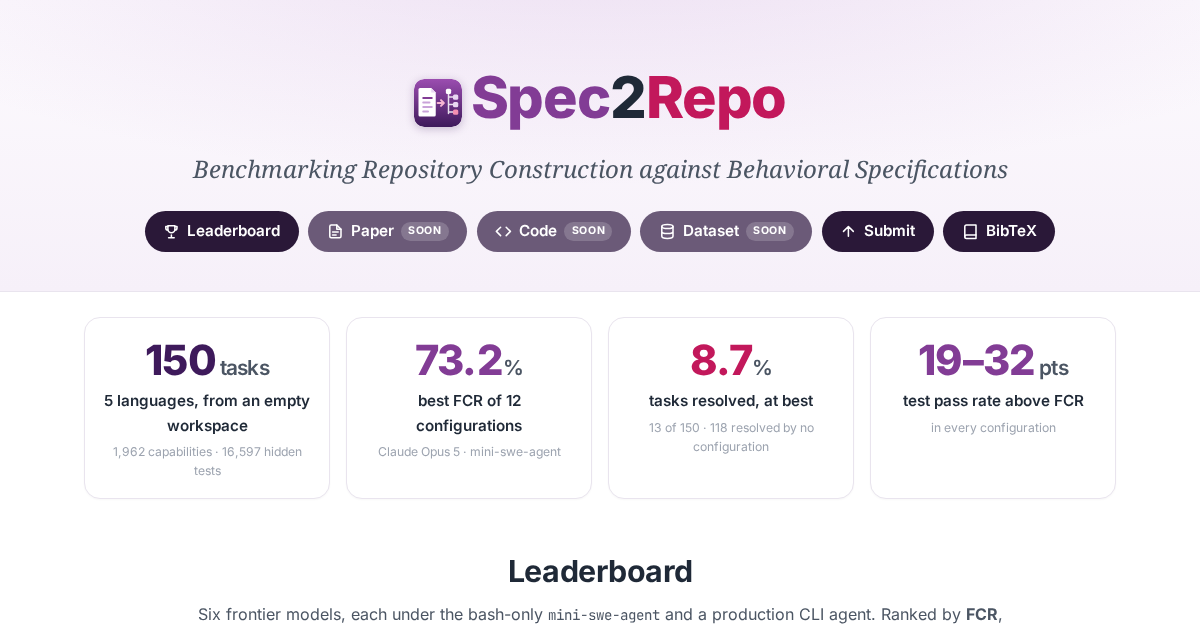
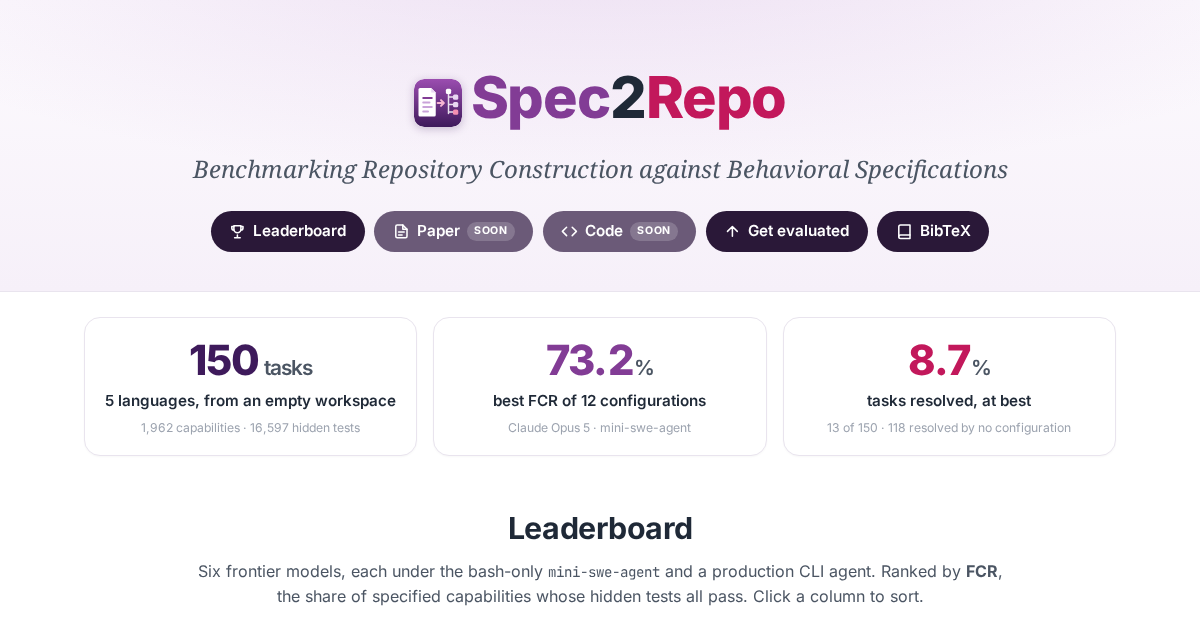
Remove test pass rate from leaderboard and headline cards

diff --git a/index.html b/index.html
@@ -119,11 +119,6 @@
     <div class="tldr-label">tasks resolved, at best</div>
     <div class="tldr-foot">13 of 150 · 118 resolved by no configuration</div>
   </div>
-  <div class="tldr-card">
-    <div class="tldr-num">19–32<span class="unit"> pts</span></div>
-    <div class="tldr-label">test pass rate above FCR</div>
-    <div class="tldr-foot">in every configuration</div>
-  </div>
 </div>
 
 <!-- ================== LEADERBOARD ================== -->
@@ -456,7 +451,7 @@
     <div class="submit-step"><span class="n">1</span><h4>Contact us</h4><p>Write to <a href="mailto:frostlin2005@gmail.com">frostlin2005@gmail.com</a> with the model or scaffold you want evaluated.</p></div>
     <div class="submit-step"><span class="n">2</span><h4>Same protocol</h4><p>Each run starts from the specification and an empty workspace in a fresh container, with an 8-hour budget and network access limited to the model API and a package registry.</p></div>
     <div class="submit-step"><span class="n">3</span><h4>Offline scoring</h4><p>The repository is built in a fresh container and the hidden tests run without network access. The agent never sees the tests or the reference implementation.</p></div>
-    <div class="submit-step"><span class="n">4</span><h4>Reported metrics</h4><p>FCR, test pass rate, and resolved tasks over all 150 tasks, the same columns as the leaderboard.</p></div>
+    <div class="submit-step"><span class="n">4</span><h4>Reported metrics</h4><p>FCR and resolved tasks over all 150 tasks, the same columns as the leaderboard.</p></div>
   </div>
 </section>
 

diff --git a/static/js/leaderboard.js b/static/js/leaderboard.js
@@ -13,12 +13,10 @@
       { k: 'fcr', h: 'FCR', sub: 'overall', cls: 'fcr' },
       ...S.LANGS.map((l) => ({ k: 'lang.' + l, h: S.LNAME[l], sub: S.NTASK[l] + ' tasks' })),
       { k: 'resolved', h: 'Resolved', sub: '(almost)', cls: 'res' },
-      { k: 'pass', h: 'Pass rate', sub: 'tests' },
     ],
     cost: [
       { k: 'fcr', h: 'FCR', sub: 'overall', cls: 'fcr' },
       { k: 'resolved', h: 'Resolved', sub: '(almost)', cls: 'res' },
-      { k: 'pass', h: 'Pass rate', sub: 'tests' },
       { k: 'cost', h: 'Cost', sub: '$ / run' },
       { k: 'tokens', h: 'Tokens', sub: 'M / run' },
       { k: 'calls', h: 'API calls', sub: '/ run' },

diff --git a/static/css/style.css b/static/css/style.css
@@ -107,7 +107,7 @@ button { font-family: var(--sans); }
 
 /* ----- TL;DR cards ----- */
 .tldr-grid {
-  display: grid; grid-template-columns: repeat(4, 1fr); gap: 1rem;
+  display: grid; grid-template-columns: repeat(3, 1fr); gap: 1rem;
   max-width: 1080px; margin: 0 auto; padding: 1.6rem 1.5rem 0;
 }
 .tldr-card {
